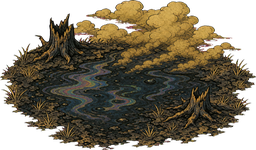
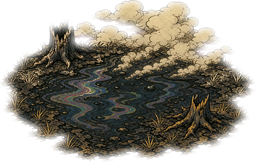
Pollution lies flat on the ground: feathered stain, see-through smog
No ink outline, the stain's edge melts into the ground, the smog is
translucent, it covers most of its cell, and it is drawn before anything that
stands on the map (it was drawn over the city beside it).

Claude-Session: https://claude.ai/code/session_01VGBb6mKQ3kspS5r6m29MiP

diff --git a/src/Graphics/IsoView.cs b/src/Graphics/IsoView.cs
@@ -353,7 +353,7 @@ namespace OpenCivOne.Graphics
 			view.LoadObject(objectsFolder, "hut", height: 28, halo: true);
 			view.LoadObject(objectsFolder, "mine", height: 32, halo: true);
 			view.LoadObject(objectsFolder, "fortress", height: 46, halo: true);
-			view.LoadObject(objectsFolder, "pollution", height: 32, halo: true);
+			view.LoadObject(objectsFolder, "pollution", height: 40);
 
 			return view;
 		}
@@ -2141,6 +2141,19 @@ namespace OpenCivOne.Graphics
 
 			using (SKPaint sprite = new SKPaint { IsAntialias = true })
 			{
+				// pollution: the painted patch of poisoned ground and smog, laid on the ground before anything that stands on it
+				if (this.objects.TryGetValue("pollution", out SKBitmap? smog))
+				{
+					foreach ((int x, int y) in cells)
+					{
+						if ((Improvements(x, y) & 0x40) == 0 || !ExploredAt(x, y))
+							continue;
+
+						SKPoint c = Screen(x + 0.5f, y + 0.55f);
+						canvas.DrawBitmap(smog, c.X - (smog.Width / 2f), c.Y - (smog.Height * 0.6f), sprite);
+					}
+				}
+
 				foreach (var item in items)
 					canvas.DrawBitmap(item.Bitmap, item.X - (item.Bitmap.Width / 2f), item.Base - item.Bitmap.Height, sprite);
 
@@ -2152,19 +2165,6 @@ namespace OpenCivOne.Graphics
 					canvas.SaveLayer(ghost);
 					DrawRoutes(canvas, overMountains, new List<SKPoint[]>());
 					canvas.Restore();
-				}
-
-				// pollution: the painted patch of poisoned ground and smog, laid on the ground under the other objects
-				if (this.objects.TryGetValue("pollution", out SKBitmap? smog))
-				{
-					foreach ((int x, int y) in cells)
-					{
-						if ((Improvements(x, y) & 0x40) == 0 || !ExploredAt(x, y))
-							continue;
-
-						SKPoint c = Screen(x + 0.5f, y + 0.55f);
-						canvas.DrawBitmap(smog, c.X - (smog.Width / 2f), c.Y + 8 - smog.Height, sprite);
-					}
 				}
 
 				foreach (var item in topLayer)
